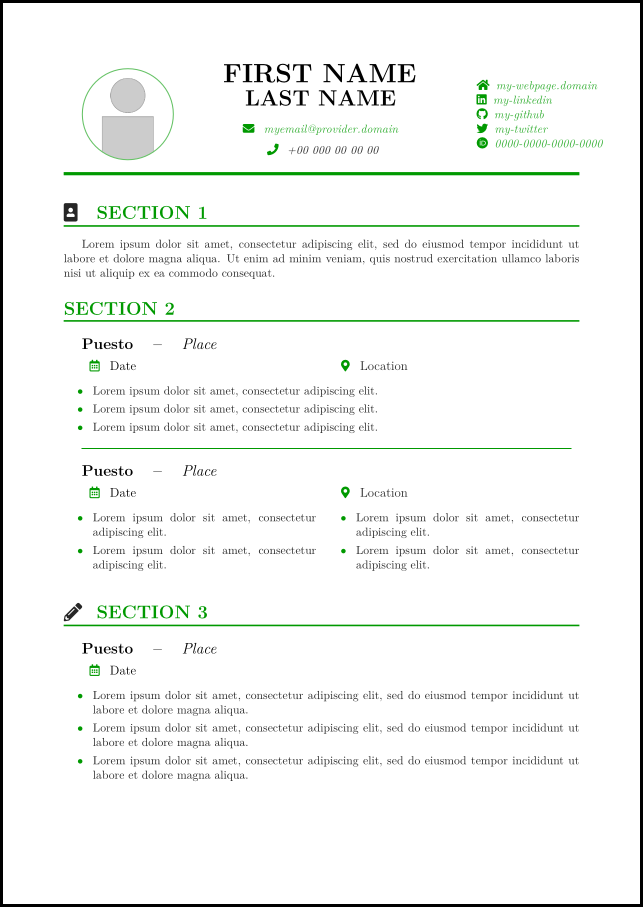
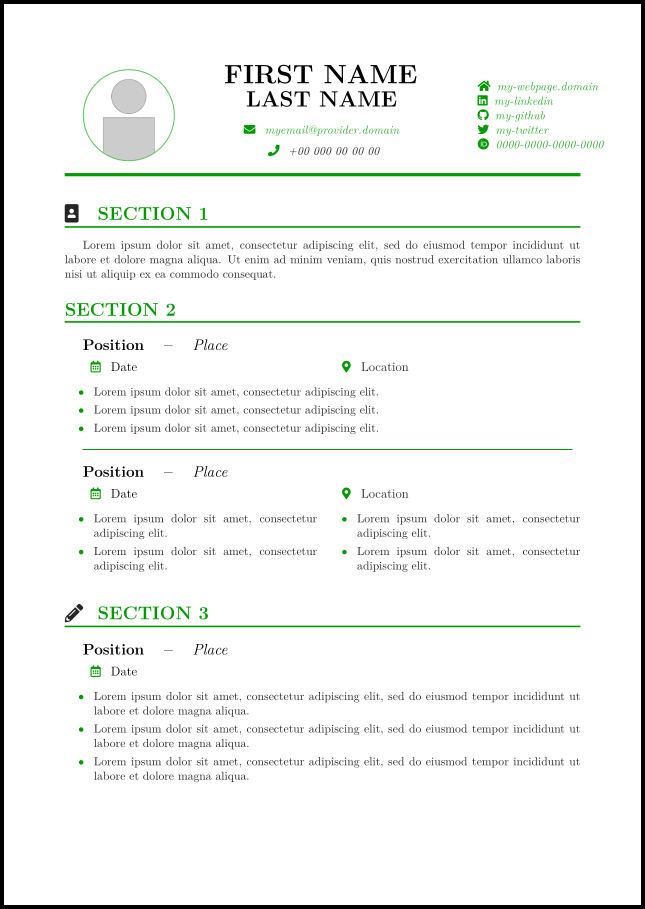
Fixed wrong translation.

diff --git a/sample.tex b/sample.tex
@@ -166,7 +166,7 @@
     %  [<Date text>]
     %  (<Location text>)
 
-    \CVItem{Puesto}{Place}[Date](Location)
+    \CVItem{Position}{Place}[Date](Location)
   	  \begin{itemize}
   	    \item Lorem ipsum dolor sit amet, consectetur adipiscing elit.
   	    \item Lorem ipsum dolor sit amet, consectetur adipiscing elit.
@@ -180,7 +180,7 @@
 
 	\vspace{2mm}
 
-    \CVItem{Puesto}{Place}[Date](Location)
+    \CVItem{Position}{Place}[Date](Location)
       \vspace{-3mm}
       \begin{multicols}{2}
   	    \begin{itemize}
@@ -193,7 +193,7 @@
 
   \CVSection[\faPencil*](-3.5ex){Section 3}
 
-    \CVItem{Puesto}{Place}[Date]
+    \CVItem{Position}{Place}[Date]
   	  \begin{itemize}
   	    \item Lorem ipsum dolor sit amet, consectetur adipiscing elit, sed do eiusmod tempor incididunt ut labore et dolore magna aliqua.
   	    \item Lorem ipsum dolor sit amet, consectetur adipiscing elit, sed do eiusmod tempor incididunt ut labore et dolore magna aliqua.
